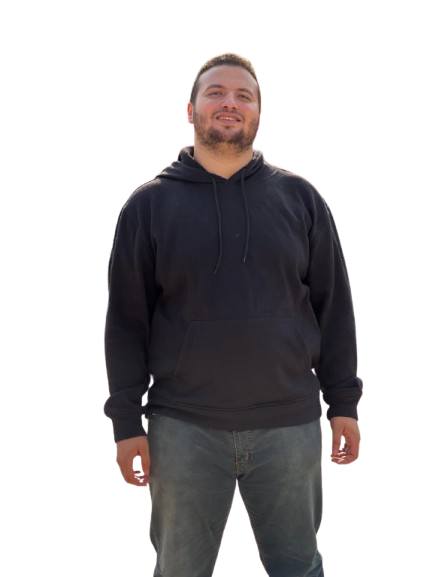
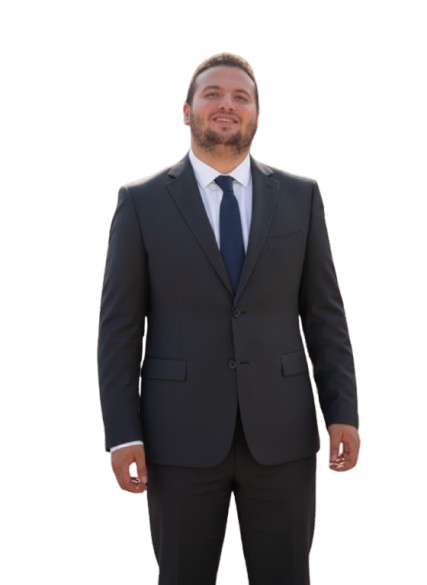
finish

diff --git a/lib/features/projects/presentation/widgets/projects_carusol.dart b/lib/features/projects/presentation/widgets/projects_carusol.dart
@@ -10,7 +10,7 @@ class ProjectsCarusol extends StatelessWidget {
   @override
   Widget build(BuildContext context) {
     if (images.isEmpty) {
-      return const SizedBox.shrink(); // ✅ أفضل من Text
+      return const SizedBox.shrink();
     }
 
     return LayoutBuilder(
@@ -35,10 +35,12 @@ class ProjectsCarusol extends StatelessWidget {
               viewportFraction: 0.2,
             ),
             itemBuilder: (context, imgIndex, realIdx) {
-              final imagePath =
-                  images[imgIndex].toString().startsWith('assets/')
-                      ? images[imgIndex].toString().replaceFirst('assets/', '')
-                      : images[imgIndex].toString();
+              String imagePath = images[imgIndex].toString();
+
+              // ✅ للويب: إزالة "assets/" من البداية
+              if (kIsWeb && imagePath.startsWith('assets/')) {
+                imagePath = imagePath.substring(7); // إزالة "assets/"
+              }
 
               return GestureDetector(
                 onTap: () {
@@ -64,45 +66,80 @@ class ProjectsCarusol extends StatelessWidget {
     );
   }
 
-  /// ✅ الحل الأساسي: استخدام Image.network للويب
   Widget _buildImage(String imagePath) {
     if (kIsWeb) {
-      // للويب: استخدم المسار المطلق
+      // ✅ للويب: Image.network من مجلد assets مباشرة
       return Image.network(
-        'assets/$imagePath', // ⚠ هنا المسار لازم يبدأ بـ assets/
+        'assets/$imagePath',
         fit: BoxFit.cover,
         width: 200,
         height: 200,
         errorBuilder: (context, error, stackTrace) {
+          debugPrint('❌ Failed to load: assets/$imagePath');
           return Container(
-            color: Colors.grey[300],
-            child: const Icon(Icons.broken_image, size: 50),
+            width: 200,
+            height: 200,
+            decoration: BoxDecoration(
+              color: Colors.grey[850],
+              border: Border.all(color: Colors.red.withOpacity(0.3)),
+              borderRadius: BorderRadius.circular(8),
+            ),
+            child: Column(
+              mainAxisAlignment: MainAxisAlignment.center,
+              children: [
+                Icon(Icons.broken_image, size: 40, color: Colors.red[300]),
+                SizedBox(height: 8),
+                Text(
+                  'Image Error',
+                  style: TextStyle(color: Colors.red[300], fontSize: 10),
+                ),
+                Padding(
+                  padding: EdgeInsets.all(8),
+                  child: Text(
+                    imagePath.split('/').last,
+                    style: TextStyle(color: Colors.white54, fontSize: 8),
+                    textAlign: TextAlign.center,
+                    maxLines: 2,
+                    overflow: TextOverflow.ellipsis,
+                  ),
+                ),
+              ],
+            ),
           );
         },
         loadingBuilder: (context, child, loadingProgress) {
           if (loadingProgress == null) return child;
-          return Center(
-            child: CircularProgressIndicator(
-              value:
-                  loadingProgress.expectedTotalBytes != null
-                      ? loadingProgress.cumulativeBytesLoaded /
-                          loadingProgress.expectedTotalBytes!
-                      : null,
+          return Container(
+            width: 200,
+            height: 200,
+            color: Colors.grey[850],
+            child: Center(
+              child: CircularProgressIndicator(
+                value:
+                    loadingProgress.expectedTotalBytes != null
+                        ? loadingProgress.cumulativeBytesLoaded /
+                            loadingProgress.expectedTotalBytes!
+                        : null,
+                strokeWidth: 2,
+                color: Colors.white54,
+              ),
             ),
           );
         },
       );
     } else {
-      // للموبايل: Image.asset عادي
+      // ✅ للموبايل: Image.asset عادي
       return Image.asset(
-        imagePath,
+        'assets/$imagePath',
         fit: BoxFit.cover,
         width: 200,
         height: 200,
         errorBuilder: (context, error, stackTrace) {
           return Container(
-            color: Colors.grey[300],
-            child: const Icon(Icons.broken_image, size: 50),
+            width: 200,
+            height: 200,
+            color: Colors.grey[800],
+            child: Icon(Icons.broken_image, size: 40, color: Colors.white54),
           );
         },
       );

diff --git a/lib/features/home/presentation/widgets/download_button.dart b/lib/features/home/presentation/widgets/download_button.dart
@@ -1,7 +1,6 @@
-
 import 'package:flutter/material.dart';
 import 'package:flutter/services.dart' show rootBundle;
-import 'package:universal_io/io.dart' show Platform;
+import 'package:flutter/foundation.dart' show kIsWeb;
 import 'dart:html' as html;
 
 class DownloadCVButton extends StatelessWidget {
@@ -9,12 +8,13 @@ class DownloadCVButton extends StatelessWidget {
 
   final String filePath = 'assets/Youssef-Mahmoud-CV.pdf';
 
-  Future<void> _downloadCV() async {
+  Future<void> _downloadCV(BuildContext context) async {
     try {
-      final byteData = await rootBundle.load(filePath);
-      final bytes = byteData.buffer.asUint8List();
+      if (kIsWeb) {
+        // ✅ للويب: تحميل الملف من assets
+        final byteData = await rootBundle.load(filePath);
+        final bytes = byteData.buffer.asUint8List();
 
-      if (Platform.operatingSystem == 'web') {
         final blob = html.Blob([bytes], 'application/pdf');
         final url = html.Url.createObjectUrlFromBlob(blob);
 
@@ -28,12 +28,32 @@ class DownloadCVButton extends StatelessWidget {
         anchor.remove();
 
         html.Url.revokeObjectUrl(url);
+
+        // ✅ رسالة نجاح
+        if (context.mounted) {
+          ScaffoldMessenger.of(context).showSnackBar(
+            const SnackBar(
+              content: Text('✅ CV downloaded successfully!'),
+              duration: Duration(seconds: 2),
+            ),
+          );
+        }
       } else {
-        // أي منصة تانية (مش المفروض توصل هنا)
-        print('⚠ Not running on web');
+        debugPrint('⚠ Not running on web');
       }
     } catch (e) {
-      print('❌ Error downloading file: $e');
+      debugPrint('❌ Error downloading CV: $e');
+
+      // ✅ رسالة خطأ
+      if (context.mounted) {
+        ScaffoldMessenger.of(context).showSnackBar(
+          SnackBar(
+            content: Text('❌ Failed to download CV: $e'),
+            backgroundColor: Colors.red,
+            duration: const Duration(seconds: 3),
+          ),
+        );
+      }
     }
   }
 
@@ -45,8 +65,15 @@ class DownloadCVButton extends StatelessWidget {
         padding: const EdgeInsets.symmetric(horizontal: 28, vertical: 14),
         shape: RoundedRectangleBorder(borderRadius: BorderRadius.circular(8)),
       ),
-      onPressed: _downloadCV,
-      child: const Text("Download CV"),
+      onPressed: () => _downloadCV(context),
+      child: const Row(
+        mainAxisSize: MainAxisSize.min,
+        children: [
+          Icon(Icons.download, size: 18),
+          SizedBox(width: 8),
+          Text("Download CV"),
+        ],
+      ),
     );
   }
 }

diff --git a/lib/features/home/presentation/widgets/profile_pic.dart b/lib/features/home/presentation/widgets/profile_pic.dart
@@ -1,4 +1,7 @@
 import 'package:flutter/material.dart';
+import 'package:flutter_screenutil/flutter_screenutil.dart';
+
+import '../../../../core/utils/responsive.dart';
 
 class ProfileAvatarSection extends StatelessWidget {
   final String image;
@@ -7,31 +10,34 @@ class ProfileAvatarSection extends StatelessWidget {
 
   @override
   Widget build(BuildContext context) {
-    return Stack(
-      clipBehavior: Clip.none, // عشان الصورة تطلع برا الستاك
-      alignment: Alignment.topCenter,
-      children: [
-        // الكارت أو الخلفية
-        Container(
-          width: 200,
-          height: 200,
-          margin: const EdgeInsets.only(top: 100), // يسيب مساحة فوق للصورة
-          decoration: BoxDecoration(
-            color: const Color(0xFF1A1A1A),
-            shape: BoxShape.circle,
-          ),
-        ),
+    // تحديد الحجم حسب نوع الجهاز
+    final double size =
+        Responsive.isDesktop(context)
+            ? 450.w
+            : Responsive.isTablet(context)
+            ? 450.w
+            : 600.w; // أصغر للأجهزة الصغيرة
 
-        // الصورة الطالعة لفوق
-        Positioned(
-          top: -60, // المسافة اللي الصورة طالعة بيها لفوق
-          child: CircleAvatar(
-            radius: 80,
-            backgroundColor: Colors.grey[800],
-            backgroundImage: AssetImage(image),
-          ),
+    return Container(
+      width: size,
+      height: size, // خلي العرض والارتفاع متساويين عشان تبقى دائرية
+
+      decoration: BoxDecoration(
+        color: Colors.white.withOpacity(0.1),
+        shape: BoxShape.circle,
+        image: DecorationImage(
+          image: AssetImage(image),
+          fit: BoxFit.contain, // يغطي كل الدائرة بدون تشويه
+          filterQuality: FilterQuality.high,
         ),
-      ],
+        boxShadow: [
+          BoxShadow(
+            color: Colors.black26,
+            blurRadius: 20,
+            offset: Offset(0, 10),
+          ),
+        ],
+      ),
     );
   }
 }

diff --git a/lib/features/home/presentation/widgets/home_section.dart b/lib/features/home/presentation/widgets/home_section.dart
@@ -5,6 +5,7 @@ import 'package:font_awesome_flutter/font_awesome_flutter.dart';
 import '../../../../core/utils/responsive.dart';
 import 'download_button.dart';
 import 'hire_me_button.dart';
+import 'profile_pic.dart';
 import 'social_media.dart';
 
 class HomeSection extends StatefulWidget {
@@ -91,12 +92,7 @@ class _HomeSectionState extends State<HomeSection> {
           child: _buildIntroSection(context, name, title, social, cv),
         ),
         const SizedBox(width: 40),
-        CircleAvatar(
-          radius: 250.r,
-          backgroundColor: Colors.grey[800],
-          backgroundImage: AssetImage(image),
-          // foregroundImage: AssetImage(image, ),
-        ),
+        ProfileAvatarSection(image: image),
       ],
     );
   }
@@ -112,11 +108,8 @@ class _HomeSectionState extends State<HomeSection> {
     return Column(
       mainAxisAlignment: MainAxisAlignment.center,
       children: [
-        CircleAvatar(
-          radius: 100,
-          backgroundColor: Colors.grey[800],
-          backgroundImage: AssetImage(image),
-        ),
+        ProfileAvatarSection(image: image),
+
         const SizedBox(height: 30),
         _buildIntroSection(context, name, title, social, cv),
       ],

diff --git a/README.md b/README.md
@@ -1,16 +1,35 @@
-# my_portfolio
+# 🌟 My Portfolio
 
-A new Flutter project.
+A Flutter project for a personal portfolio website.  
+This project is designed to showcase your personal information, skills, and projects in an attractive and responsive way.  
 
-## Getting Started
+You can **customize your portfolio** by adding your own data and project images, and automatically generate project data.
 
-This project is a starting point for a Flutter application.
+---
 
-A few resources to get you started if this is your first Flutter project:
+## 📂 Project Structure
 
-- [Lab: Write your first Flutter app](https://docs.flutter.dev/get-started/codelab)
-- [Cookbook: Useful Flutter samples](https://docs.flutter.dev/cookbook)
+- **`assets/cv_info.json`**  
+  Contains your personal information like name, title, and social links.  
+  ✏ **To customize:** edit this file with your own data.
 
-For help getting started with Flutter development, view the
-[online documentation](https://docs.flutter.dev/), which offers tutorials,
-samples, guidance on mobile development, and a full API reference.
+- **`assets/projectScreens/`**  
+  Folder for your project screenshots.  
+  📸 **To auto-generate project data:** add your project images here.
+
+- **`tools/generate_projects_data.dart`**  
+  Dart script to automatically generate project data based on the files in `assets/projectScreens/`.  
+  ▶ **To run:**  
+  ```bash
+  dart run tools/generate_projects_data.dart
+
+  ▶ **To build web:**  
+     
+  ```bash
+  flutter clean
+  flutter pub get
+  flutter build web --release
+  xcopy /E /I /Y assets\projectsScreens build\web\assets\projectsScreens
+
+
+>> After building, you can upload the contents of the build/web folder to your web server.
